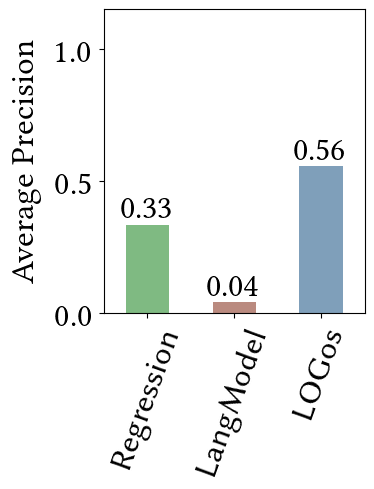
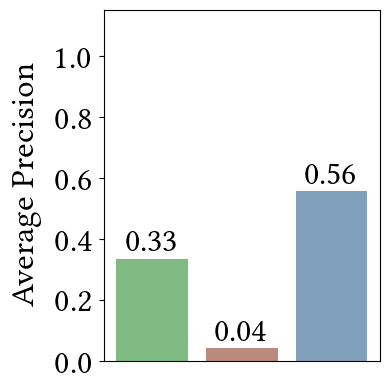
Update plots to move system names into legends

diff --git a/evaluation/8.2-candidate-cause-ranking/plot_average_precision.py b/evaluation/8.2-candidate-cause-ranking/plot_average_precision.py
@@ -88,9 +88,11 @@ for dataset in datasets:
         {"avg_precision": [avg_precision[m] for m in mapping.keys()]},
         index=mapping.values(),
     )
-    ax = df.plot(kind="bar", figsize=(4, 5))
+    fig, ax = plt.subplots(figsize=(4, 4))
+    for idx, (label, value) in enumerate(zip(df.index, df["avg_precision"])):
+        ax.bar(idx, value, label=label)
     ax.tick_params(axis="both", which="major", labelsize=FONTSIZE)
-    plt.xticks(rotation=70)
+    plt.xticks([])
     plt.ylabel("Average Precision", fontsize=FONTSIZE, labelpad=10)
     plt.xlabel("")
 
@@ -107,13 +109,15 @@ for dataset in datasets:
 
     # Leave some gap on the y axis so that the labels are inside the plot
     y_max = max(list(avg_precision.values()))
+    plt.yticks([0, 0.2, 0.4, 0.6, 0.8, 1])
     plt.ylim(0, 1.15)
 
-    # Set the color of the bars
+    # Set the color of the bars and add legend if needed.
     ax.patches[0].set_facecolor("#7FBA82")
     ax.patches[1].set_facecolor("#ba8a7f")
     ax.patches[2].set_facecolor("#7F9FBA")
-    ax.get_legend().remove()
+    if dataset == 'postgresql':
+        plt.legend(fontsize=FONTSIZE, loc="upper center", borderpad=0.2)
 
     plt.tight_layout()
     fig_path = os.path.join(

diff --git a/evaluation/8.3-interactive-causal-graph-refinement/plot_latency_breakdown.py b/evaluation/8.3-interactive-causal-graph-refinement/plot_latency_breakdown.py
@@ -65,10 +65,12 @@ for v in distinct_v:
     df = pd.DataFrame(
         {"latency": [latency[m] for m in mapping.keys()]}, index=mapping.values()
     )
-    ax = df.plot(kind="bar", figsize=(4, 5))
+    fig, ax = plt.subplots(figsize=(4, 4))
+    for idx, (label, value) in enumerate(zip(df.index, df["latency"])):
+        ax.bar(idx, value, label=label)
     ax.tick_params(axis="both", which="major", labelsize=FONTSIZE)
-    plt.xticks(rotation=70)
-    plt.ylabel("Cumulative Processing\nTime (s)", fontsize=FONTSIZE, labelpad=10)
+    plt.xticks([])
+    plt.ylabel("Cumulative Latency (s)", fontsize=FONTSIZE, labelpad=10)
     plt.xlabel("")
 
     # Print the value of each bar above it
@@ -86,11 +88,12 @@ for v in distinct_v:
     y_max = max(list(latency.values()))
     plt.ylim(0, 45)
 
-    # Set the color of the bars
+    # Set the color of the bars and add legend if needed
     ax.patches[0].set_facecolor("#7FBA82")
     ax.patches[1].set_facecolor("#ba8a7f")
     ax.patches[2].set_facecolor("#7F9FBA")
-    ax.get_legend().remove()
+    if v == 10:
+        plt.legend(fontsize=FONTSIZE, loc="upper center", borderpad=0.2)
 
     plt.tight_layout()
     fig_path = os.path.join(

diff --git a/evaluation/8.2-candidate-cause-ranking/plot_latency.py b/evaluation/8.2-candidate-cause-ranking/plot_latency.py
@@ -56,10 +56,12 @@ for dataset in datasets:
     df = pd.DataFrame(
         {"latency": [latency[m] for m in mapping.keys()]}, index=mapping.values()
     )
-    ax = df.plot(kind="bar", figsize=(4, 5))
+    fig, ax = plt.subplots(figsize=(4, 4))
+    for idx, (label, value) in enumerate(zip(df.index, df["latency"])):
+        ax.bar(idx, value, label=label)
     ax.tick_params(axis="both", which="major", labelsize=FONTSIZE)
-    plt.xticks(rotation=70)
-    plt.ylabel("Mean latency (s)", fontsize=FONTSIZE, labelpad=10)
+    plt.xticks([])
+    plt.ylabel("Mean Latency (s)", fontsize=FONTSIZE, labelpad=10)
     plt.xlabel("")
 
     # Print the value of each bar above it
@@ -81,7 +83,9 @@ for dataset in datasets:
     ax.patches[0].set_facecolor("#7FBA82")
     ax.patches[1].set_facecolor("#ba8a7f")
     ax.patches[2].set_facecolor("#7F9FBA")
-    ax.get_legend().remove()
+    if dataset == 'postgresql':
+        plt.ylim(0, y_max * 2.25)
+        plt.legend(fontsize=FONTSIZE, loc="upper center", borderpad=0.2)
 
     plt.tight_layout()
     fig_path = os.path.join(

diff --git a/evaluation/8.3-interactive-causal-graph-refinement/plot_latency.py b/evaluation/8.3-interactive-causal-graph-refinement/plot_latency.py
@@ -62,10 +62,13 @@ for dataset in datasets:
     df = pd.DataFrame(
         {"latency": [latency[m] for m in mapping.keys()]}, index=mapping.values()
     )
-    ax = df.plot(kind="bar", figsize=(4, 5))
+    fig, ax = plt.subplots(figsize=(4, 4))
+    for idx, (label, value) in enumerate(zip(df.index, df["latency"])):
+        ax.bar(idx, value, label=label)
     ax.tick_params(axis="both", which="major", labelsize=FONTSIZE)
+    plt.xticks([])
     plt.xticks(rotation=70)
-    plt.ylabel("Cumulative Processing\nTime (s)", fontsize=FONTSIZE, labelpad=10)
+    plt.ylabel("Cumulative Latency (s)", fontsize=FONTSIZE, labelpad=10)
     plt.xlabel("")
 
     # Print the value of each bar above it
@@ -87,7 +90,6 @@ for dataset in datasets:
     ax.patches[0].set_facecolor("#7FBA82")
     ax.patches[1].set_facecolor("#ba8a7f")
     ax.patches[2].set_facecolor("#7F9FBA")
-    ax.get_legend().remove()
 
     plt.tight_layout()
     fig_path = os.path.join(

diff --git a/evaluation/8.3-interactive-causal-graph-refinement/plot_judgments.py b/evaluation/8.3-interactive-causal-graph-refinement/plot_judgments.py
@@ -70,9 +70,11 @@ for dataset in datasets:
     df = pd.DataFrame(
         {"judgments": [judgments[m] for m in mapping.keys()]}, index=mapping.values()
     )
-    ax = df.plot(kind="bar", figsize=(4, 5))
+    fig, ax = plt.subplots(figsize=(4, 4))
+    for idx, (label, value) in enumerate(zip(df.index, df["judgments"])):
+        ax.bar(idx, value, label=label)
     ax.tick_params(axis="both", which="major", labelsize=FONTSIZE)
-    plt.xticks(rotation=70)
+    plt.xticks([])
     plt.ylabel("Judgments Until\nGround Truth ATE", fontsize=FONTSIZE, labelpad=10)
     plt.xlabel("")
 
@@ -95,7 +97,6 @@ for dataset in datasets:
     ax.patches[0].set_facecolor("#7FBA82")
     ax.patches[1].set_facecolor("#ba8a7f")
     ax.patches[2].set_facecolor("#7F9FBA")
-    ax.get_legend().remove()
 
     plt.tight_layout()
     fig_path = os.path.join(
